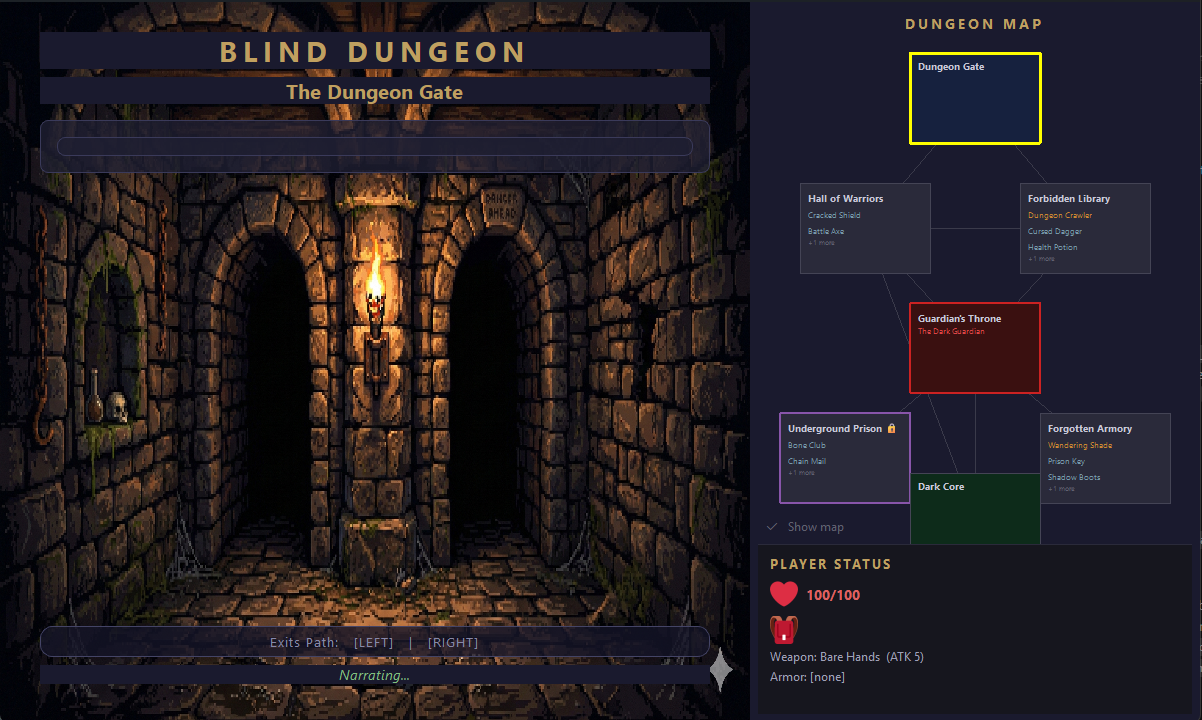
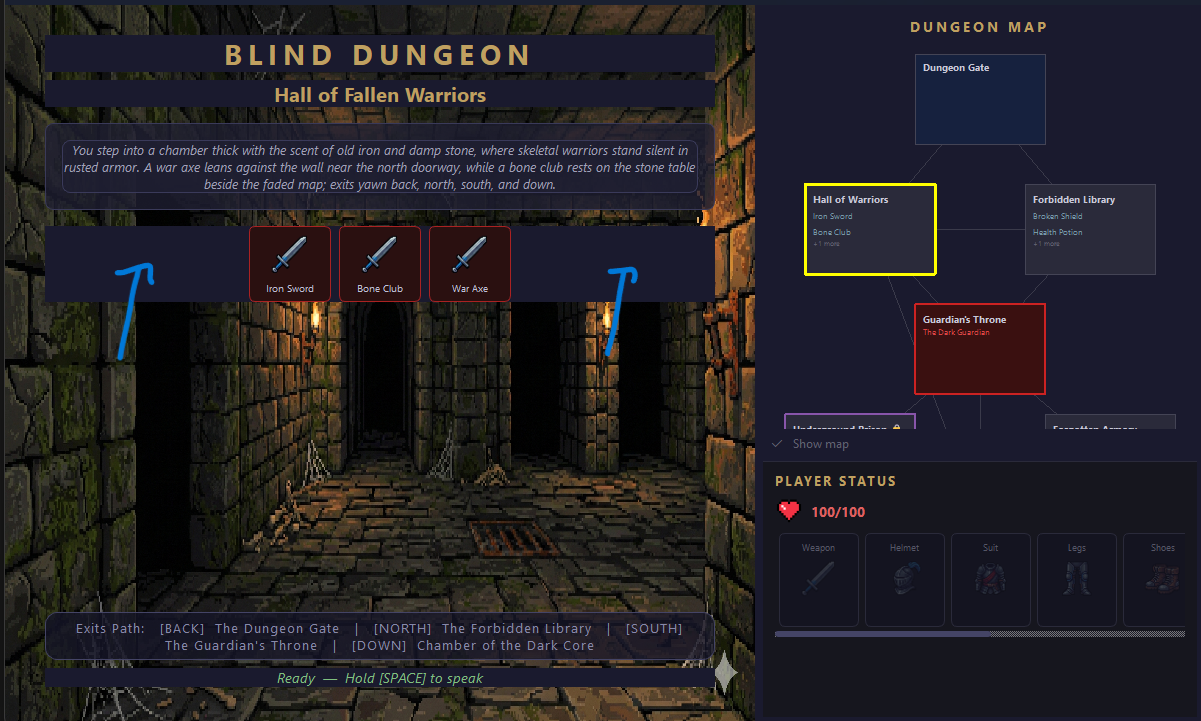
feat: add design v2

diff --git a/ui/map_panel.py b/ui/map_panel.py
@@ -19,12 +19,14 @@ from PyQt6.QtWidgets import (
     QCheckBox,
     QFrame,
     QGraphicsLineItem,
+    QGraphicsOpacityEffect,
     QGraphicsRectItem,
     QGraphicsScene,
     QGraphicsTextItem,
     QGraphicsView,
     QHBoxLayout,
     QLabel,
+    QScrollArea,
     QSizePolicy,
     QVBoxLayout,
     QWidget,
@@ -34,6 +36,23 @@ from config import ASSETS_DIR, BG_COLOR
 
 _ICONS_DIR  = ASSETS_DIR / "icons"
 _ICON_SIZE  = 28   # px for Player Status icons
+
+_ITEM_ICONS_DIR = ASSETS_DIR / "item_icons"
+_ITEM_ICON_SIZE = 42   # px — item slot card icons
+
+# All inventory slots shown in the slider, in display order
+_ALL_SLOTS: list[tuple[str, str, str]] = [
+    # (slot_or_type_key, display_label, icon_file)
+    ("weapon", "Weapon",  "weapon.png"),
+    ("helmet", "Helmet",  "helmet.png"),
+    ("suit",   "Suit",    "suit.png"),
+    ("legs",   "Legs",    "legs.png"),
+    ("shoes",  "Shoes",   "shoes.png"),
+    ("cloak",  "Cloak",   "cloak.png"),
+    ("shield", "Shield",  "shield.png"),
+    ("key",    "Key",     "key.png"),
+    ("potion", "Potion",  "potion.png"),
+]
 
 # ── Layout constants ───────────────────────────────────────────────────────────
 
@@ -339,40 +358,82 @@ class MapPanel(QWidget):
         hp_h.addStretch()
         sf_layout.addWidget(hp_row)
 
-        # Bag icon row
-        bag_row = QWidget()
-        bag_row.setStyleSheet("background: transparent;")
-        bag_h = QHBoxLayout(bag_row)
-        bag_h.setContentsMargins(0, 4, 0, 0)
-        bag_h.setSpacing(8)
+        # Horizontal scroll area — all item slots (active / inactive)
+        scroll = QScrollArea()
+        scroll.setWidgetResizable(True)
+        scroll.setHorizontalScrollBarPolicy(Qt.ScrollBarPolicy.ScrollBarAsNeeded)
+        scroll.setVerticalScrollBarPolicy(Qt.ScrollBarPolicy.ScrollBarAlwaysOff)
+        scroll.setStyleSheet(
+            "QScrollArea { background: transparent; border: none; }"
+            "QScrollBar:horizontal { height: 6px; background: #1a1a2a; border-radius: 3px; }"
+            "QScrollBar::handle:horizontal { background: #444466; border-radius: 3px; }"
+        )
+        scroll.setFixedHeight(108)
 
-        self._icon_bag = QLabel()
-        px = _load_icon("inventory.png")
-        if px:
-            self._icon_bag.setPixmap(px)
-        self._icon_bag.setFixedSize(_ICON_SIZE, _ICON_SIZE)
-        self._icon_bag.setStyleSheet("background: transparent; border: none;")
-        bag_h.addWidget(self._icon_bag)
-        bag_h.addStretch()
-        sf_layout.addWidget(bag_row)
+        inner = QWidget()
+        inner.setStyleSheet("background: transparent;")
+        inner_h = QHBoxLayout(inner)
+        inner_h.setContentsMargins(4, 4, 4, 4)
+        inner_h.setSpacing(6)
 
-        # Weapon / Armor / Bag text
-        for attr in ("lbl_ps_weapon", "lbl_ps_armor", "lbl_ps_bag"):
-            lbl = QLabel("")
-            lbl.setWordWrap(True)
-            lbl.setStyleSheet(
-                "font-size: 12px; color: #a0a0b8; "
-                "background: transparent; border: none;"
-            )
-            setattr(self, attr, lbl)
-            sf_layout.addWidget(lbl)
+        self._slot_cards: dict[str, tuple[QFrame, QLabel, QLabel]] = {}
+        for slot_key, label, icon_file in _ALL_SLOTS:
+            card, icon_lbl, name_lbl = self._make_slot_card(label, icon_file)
+            self._slot_cards[slot_key] = (card, icon_lbl, name_lbl)
+            inner_h.addWidget(card)
+        inner_h.addStretch()
 
-        # Defaults
-        self.lbl_ps_weapon.setText("Weapon: [none]")
-        self.lbl_ps_armor.setText("Armor: [none]")
-        self.lbl_ps_bag.setText("")
+        scroll.setWidget(inner)
+        sf_layout.addWidget(scroll)
+        sf_layout.addStretch()
 
         parent_layout.addWidget(status_frame, stretch=4)
+
+    def _make_slot_card(
+        self, label: str, icon_file: str
+    ) -> tuple["QFrame", "QLabel", "QLabel"]:
+        """Create an inventory slot card (inactive by default)."""
+        card = QFrame()
+        card.setFixedWidth(80)
+        card.setStyleSheet(
+            "QFrame { background-color: #141420; border: 1px solid #2a2a3a; border-radius: 6px; }"
+        )
+        v = QVBoxLayout(card)
+        v.setContentsMargins(4, 4, 4, 6)
+        v.setSpacing(2)
+
+        slot_lbl = QLabel(label)
+        slot_lbl.setAlignment(Qt.AlignmentFlag.AlignCenter)
+        slot_lbl.setStyleSheet(
+            "font-size: 9px; color: #555566; background: transparent; border: none;"
+        )
+        v.addWidget(slot_lbl)
+
+        icon_lbl = QLabel()
+        px = QPixmap(str(_ITEM_ICONS_DIR / icon_file))
+        if not px.isNull():
+            px = px.scaled(
+                _ITEM_ICON_SIZE, _ITEM_ICON_SIZE,
+                Qt.AspectRatioMode.KeepAspectRatio,
+                Qt.TransformationMode.SmoothTransformation,
+            )
+            icon_lbl.setPixmap(px)
+        icon_lbl.setAlignment(Qt.AlignmentFlag.AlignCenter)
+        icon_lbl.setStyleSheet("background: transparent; border: none;")
+        effect = QGraphicsOpacityEffect()
+        effect.setOpacity(0.2)
+        icon_lbl.setGraphicsEffect(effect)
+        v.addWidget(icon_lbl)
+
+        name_lbl = QLabel("")
+        name_lbl.setWordWrap(True)
+        name_lbl.setAlignment(Qt.AlignmentFlag.AlignCenter)
+        name_lbl.setStyleSheet(
+            "font-size: 9px; color: #444455; background: transparent; border: none;"
+        )
+        v.addWidget(name_lbl)
+
+        return card, icon_lbl, name_lbl
 
     def _build_html(
         self,
@@ -430,24 +491,43 @@ class MapPanel(QWidget):
         """
         Slot for inventory_updated signal.
         payload = {"equipped": {slot: item_dict | None}, "bag": [item_dicts]}
+        Updates each slot card to active (item equipped/in bag) or inactive.
         """
         equipped = payload.get("equipped", {})
         bag      = payload.get("bag", [])
 
-        w = equipped.get("weapon")
-        self.lbl_ps_weapon.setText(
-            f"Weapon: {w['name']}  (ATK {w.get('damage', 0)})" if w else "Weapon: [none]"
-        )
+        for slot_key, (card, icon_lbl, name_lbl) in self._slot_cards.items():
 
-        _ARMOR_SLOTS = ("helmet", "suit", "legs", "shoes", "cloak", "shield")
-        parts = [
-            f"{slot.title()}: {equipped[slot]['name']} (DEF {equipped[slot].get('defense', 0)})"
-            for slot in _ARMOR_SLOTS if equipped.get(slot)
-        ]
-        self.lbl_ps_armor.setText(
-            "Armor: " + "  |  ".join(parts) if parts else "Armor: [none]"
-        )
+            if slot_key in ("key", "potion"):
+                # Active when a matching item type is in the bag
+                match = next((i for i in bag if i.get("type") == slot_key), None)
+                active    = match is not None
+                item_name = match["name"] if match else ""
+            else:
+                item = equipped.get(slot_key)
+                # bare_hands counts as unequipped
+                if slot_key == "weapon" and item and item.get("id") == "bare_hands":
+                    active    = False
+                    item_name = ""
+                else:
+                    active    = item is not None
+                    item_name = item["name"] if item else ""
 
-        self.lbl_ps_bag.setText(
-            "Bag: " + ",  ".join(i["name"] for i in bag) if bag else ""
-        )
+            if active:
+                card.setStyleSheet(
+                    "QFrame { background-color: #2a1020; border: 1px solid #aa2222; border-radius: 6px; }"
+                )
+                icon_lbl.graphicsEffect().setOpacity(1.0)
+                name_lbl.setText(item_name)
+                name_lbl.setStyleSheet(
+                    "font-size: 9px; color: #c0c0d8; background: transparent; border: none;"
+                )
+            else:
+                card.setStyleSheet(
+                    "QFrame { background-color: #141420; border: 1px solid #2a2a3a; border-radius: 6px; }"
+                )
+                icon_lbl.graphicsEffect().setOpacity(0.2)
+                name_lbl.setText("")
+                name_lbl.setStyleSheet(
+                    "font-size: 9px; color: #444455; background: transparent; border: none;"
+                )

diff --git a/ui/game_view.py b/ui/game_view.py
@@ -7,6 +7,21 @@ from config import BG_COLOR, TEXT_COLOR, ACCENT_COLOR, STATUS_COLOR, ASSETS_DIR
 _ICONS_DIR = ASSETS_DIR / "icons"
 _ICON_SIZE  = 36   # px — icon labels are fixed at this square size
 
+_ITEM_ICONS_DIR = ASSETS_DIR / "item_icons"
+_ITEM_ICON_SIZE = 44   # px — item card icons
+
+_SLOT_ICON: dict[str, str] = {
+    "weapon": "weapon.png",
+    "helmet": "helmet.png",
+    "suit":   "suit.png",
+    "legs":   "legs.png",
+    "shoes":  "shoes.png",
+    "cloak":  "cloak.png",
+    "shield": "shield.png",
+    "key":    "key.png",
+    "potion": "potion.png",
+}
+
 
 def _load_icon(name: str) -> QPixmap | None:
     px = QPixmap(str(_ICONS_DIR / name))
@@ -81,25 +96,14 @@ class GameView(QWidget):
 
         layout.addSpacing(16)
 
-        # ── Room items row (chest icon + item names) ─────────
+        # ── Room items row (item cards) ─────────────────────
         self._items_row = QWidget()
         items_h = QHBoxLayout(self._items_row)
         items_h.setContentsMargins(0, 0, 0, 0)
-        items_h.setSpacing(10)
-
-        self._icon_chest = QLabel()
-        px = _load_icon("chest_pixel.png")
-        if px:
-            self._icon_chest.setPixmap(px)
-        self._icon_chest.setFixedSize(_ICON_SIZE, _ICON_SIZE)
-        items_h.addStretch()
-        items_h.addWidget(self._icon_chest)
-
-        self.lbl_room_items = QLabel("")
-        self.lbl_room_items.setWordWrap(True)
-        self.lbl_room_items.setAlignment(Qt.AlignmentFlag.AlignCenter)
-        items_h.addWidget(self.lbl_room_items)
-        items_h.addStretch()
+        items_h.setSpacing(8)
+        items_h.addStretch()   # left spacer
+        items_h.addStretch()   # right spacer — cards inserted between these
+        self._items_layout = items_h
 
         self._items_row.setVisible(False)
         layout.addWidget(self._items_row)
@@ -163,11 +167,8 @@ class GameView(QWidget):
         self.lbl_narration.setStyleSheet(
             "font-size: 13px; font-style: italic; color: #a0a0b8;"
         )
-        self.lbl_room_items.setStyleSheet(
-            "font-size: 12px; color: #c0c0d8;"
-        )
         self.lbl_monster.setStyleSheet(
-            f"font-size: 13px; font-weight: bold; color: {ACCENT_COLOR};"
+            f"font-size: 13px; font-weight: bold;"
         )
         self.lbl_exits.setStyleSheet(
             "font-size: 13px; color: #8888aa; letter-spacing: 1px; "
@@ -178,6 +179,45 @@ class GameView(QWidget):
         self.lbl_status.setStyleSheet(
             f"font-size: 14px; font-style: italic; color: {STATUS_COLOR};"
         )
+
+    # ── Item card factory ─────────────────────────────────────────────────────
+
+    def _make_item_card(self, item: dict) -> QFrame:
+        """Create a small card widget with item-specific icon and name."""
+        card = QFrame()
+        card.setFixedWidth(82)
+        card.setStyleSheet(
+            "QFrame { background-color: transparent; border: 1px solid #aa2222; "
+            "border-radius: 6px; }"
+        )
+        v = QVBoxLayout(card)
+        v.setContentsMargins(4, 6, 4, 6)
+        v.setSpacing(4)
+
+        icon_lbl = QLabel()
+        icon_key  = item.get("slot") or item.get("type", "")
+        icon_name = _SLOT_ICON.get(icon_key, "")
+        if icon_name:
+            px = QPixmap(str(_ITEM_ICONS_DIR / icon_name))
+            if not px.isNull():
+                px = px.scaled(
+                    _ITEM_ICON_SIZE, _ITEM_ICON_SIZE,
+                    Qt.AspectRatioMode.KeepAspectRatio,
+                    Qt.TransformationMode.SmoothTransformation,
+                )
+                icon_lbl.setPixmap(px)
+        icon_lbl.setAlignment(Qt.AlignmentFlag.AlignCenter)
+        icon_lbl.setStyleSheet("background: transparent; border: none;")
+        v.addWidget(icon_lbl)
+
+        name_lbl = QLabel(item["name"])
+        name_lbl.setWordWrap(True)
+        name_lbl.setAlignment(Qt.AlignmentFlag.AlignCenter)
+        name_lbl.setStyleSheet(
+            "font-size: 10px; color: #c0c0d8; background: transparent; border: none;"
+        )
+        v.addWidget(name_lbl)
+        return card
 
     # ── Slots ─────────────────────────────────────────────────────────────────
 
@@ -217,20 +257,19 @@ class GameView(QWidget):
         self.lbl_narration.setText(text)
 
     def update_room_items(self, items: list[dict]) -> None:
-        """Update the room items row. Shows ATK/DEF stat inline."""
+        """Update the room items row with icon cards for each item on the floor."""
+        while self._items_layout.count() > 0:
+            child = self._items_layout.takeAt(0)
+            if child.widget():
+                child.widget().deleteLater()
+
         if items:
-            parts = []
-            for i in items:
-                if i.get("type") == "weapon":
-                    parts.append(f"{i['name']}  (ATK {i.get('damage', 0)})")
-                elif i.get("type") == "armor":
-                    parts.append(f"{i['name']}  (DEF {i.get('defense', 0)})")
-                else:
-                    parts.append(i["name"])
-            self.lbl_room_items.setText("  |  ".join(parts))
+            self._items_layout.addStretch()
+            for item in items:
+                self._items_layout.addWidget(self._make_item_card(item))
+            self._items_layout.addStretch()
             self._items_row.setVisible(True)
         else:
-            self.lbl_room_items.setText("")
             self._items_row.setVisible(False)
 
     def show_monster_row(self, name: str, hp: int, max_hp: int) -> None:
